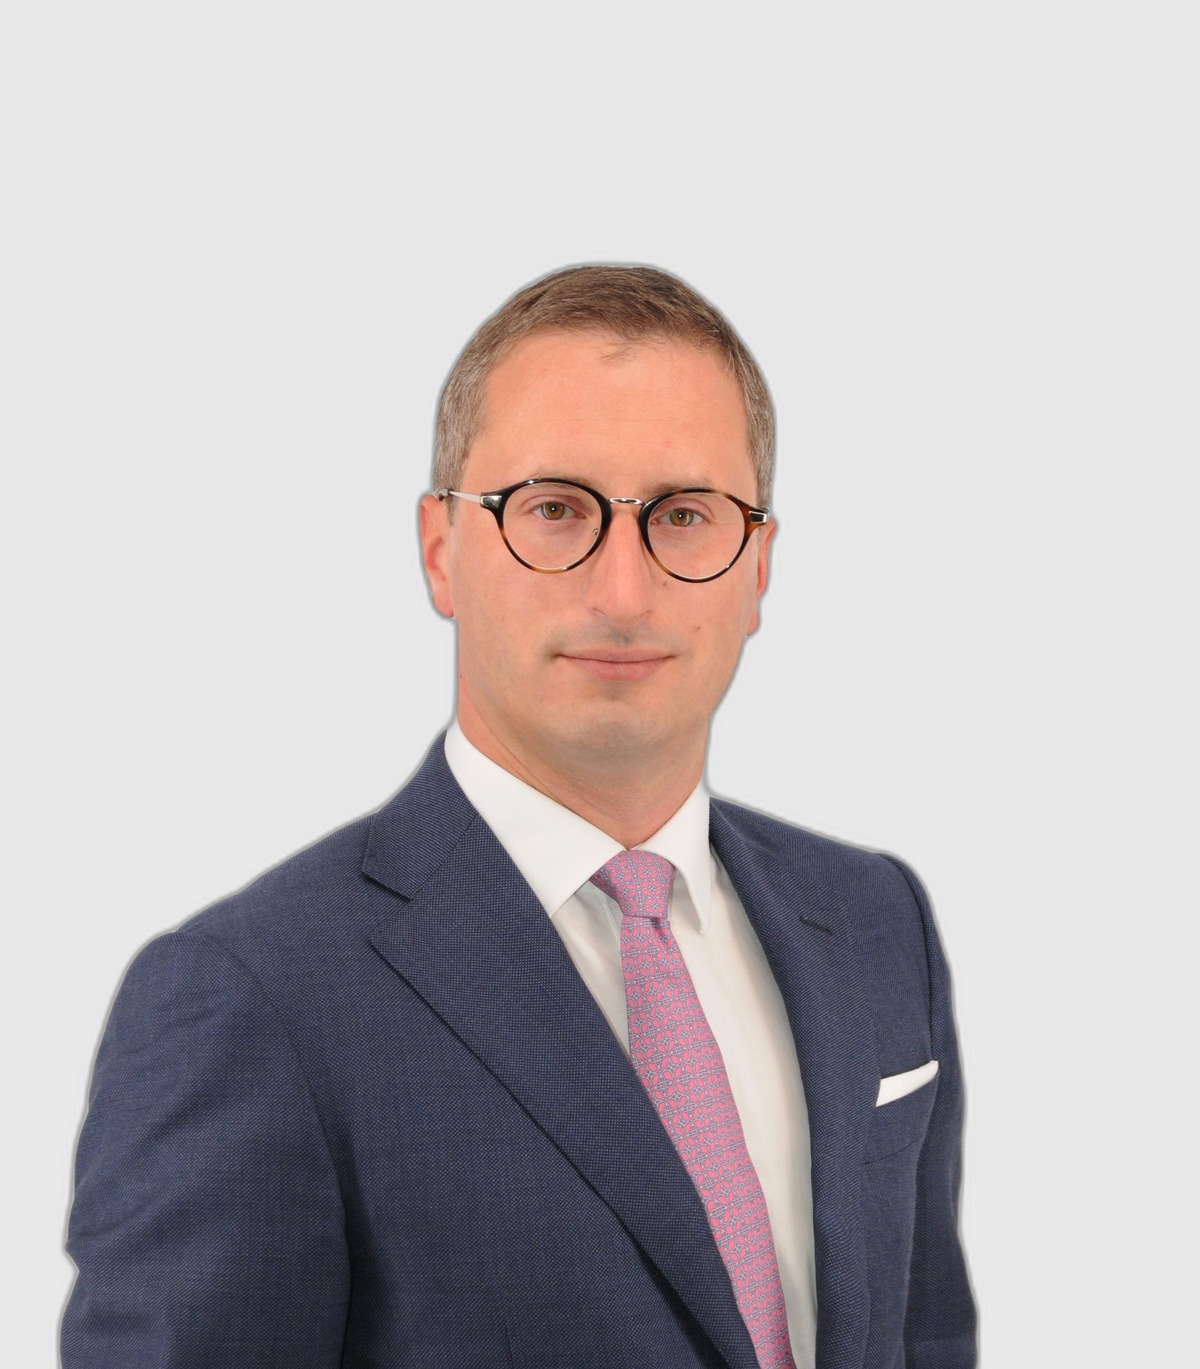
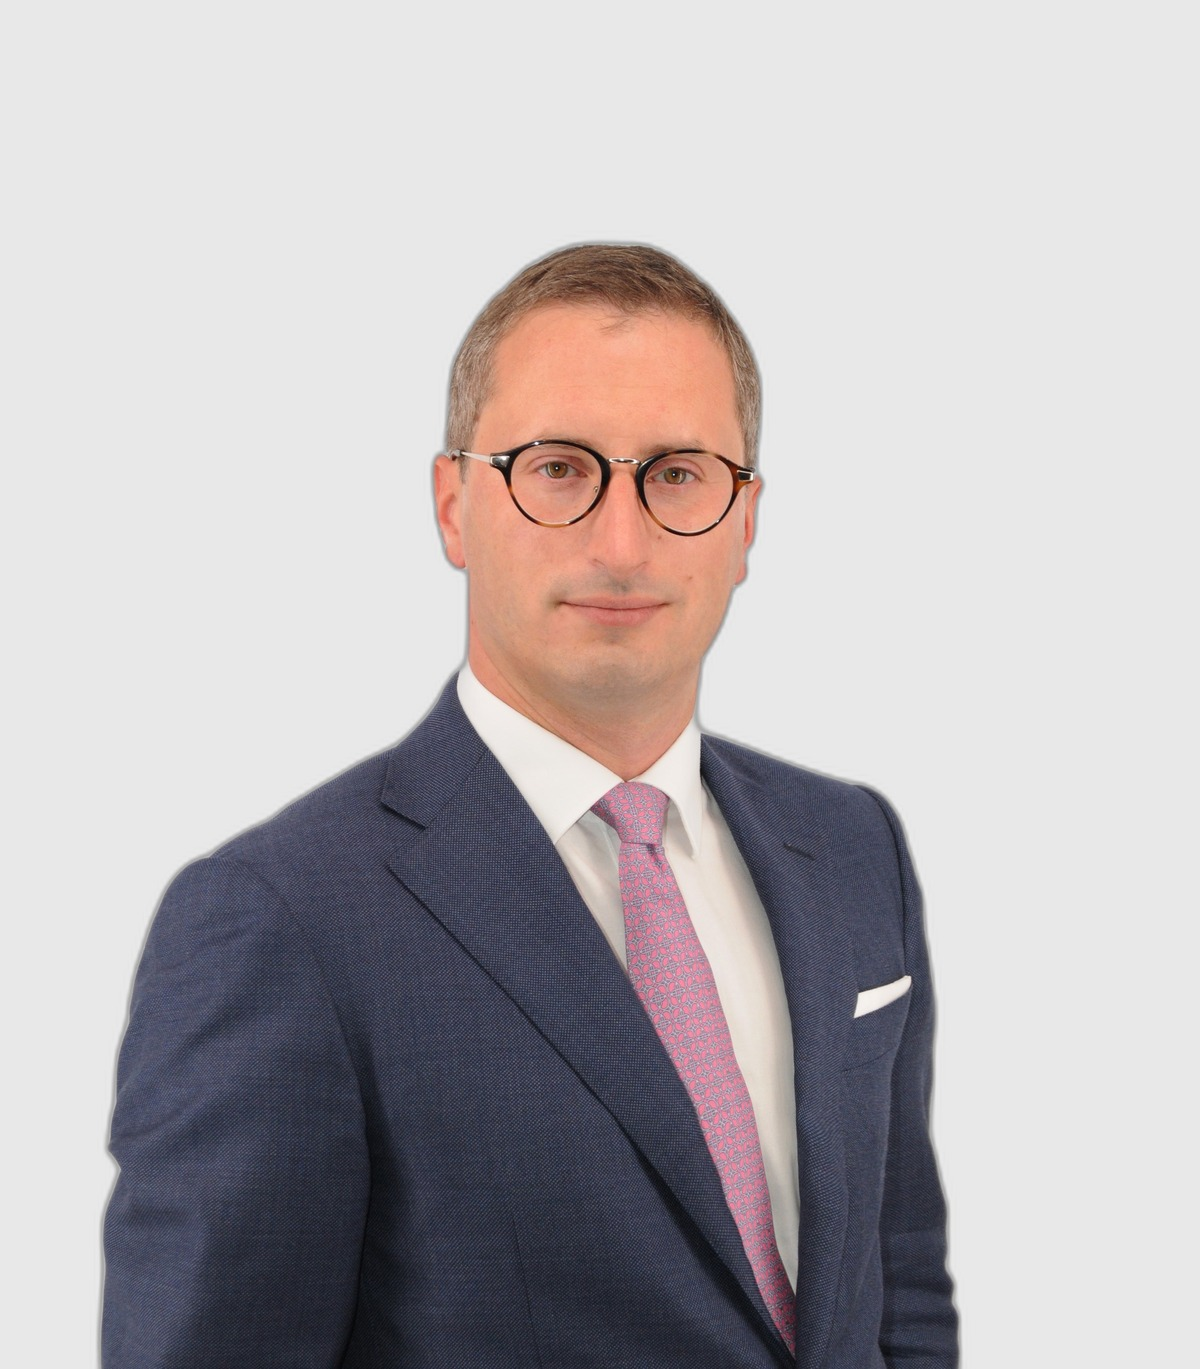
Fix section backgrounds to white; update Antonio & Sergiu photos
- Remove bg-light class from #team and #news sections
- Set #news background to #ffffff in CSS
- Update Antonio photo (wider crop, more bust shown)
- Update Sergiu photo (tighter crop)
- Bump CSS version to v=12

Changed region(s): [[0.0308, 0.1534, 0.8325, 1.0]]

diff --git a/index-v2.html b/index-v2.html
@@ -16,7 +16,7 @@
   <link rel="stylesheet" href="https://cdnjs.cloudflare.com/ajax/libs/font-awesome/6.4.0/css/all.min.css" />
 
   <!-- Styles -->
-  <link rel="stylesheet" href="css/main-v2.css?v=11" />
+  <link rel="stylesheet" href="css/main-v2.css?v=12" />
 </head>
 <body>
 
@@ -420,7 +420,7 @@
 <!-- ========================
      TEAM
      ======================== -->
-<section id="team" class="bg-light">
+<section id="team">
   <div class="container">
     <div class="section-header fade-in">
       <h2 data-it="Il Nostro Team" data-en="Our Team">Il Nostro Team</h2>
@@ -534,7 +534,7 @@
 <!-- ========================
      NEWS & COMUNICATI
      ======================== -->
-<section id="news" class="bg-light">
+<section id="news">
   <div class="container">
 
     <!-- Articoli di giornale -->

diff --git a/css/main.css b/css/main.css
@@ -905,7 +905,7 @@ section {
    NEWS / COMUNICATI
    =========================== */
 #news {
-  background: var(--light);
+  background: #ffffff;
 }
 
 .news-grid {
